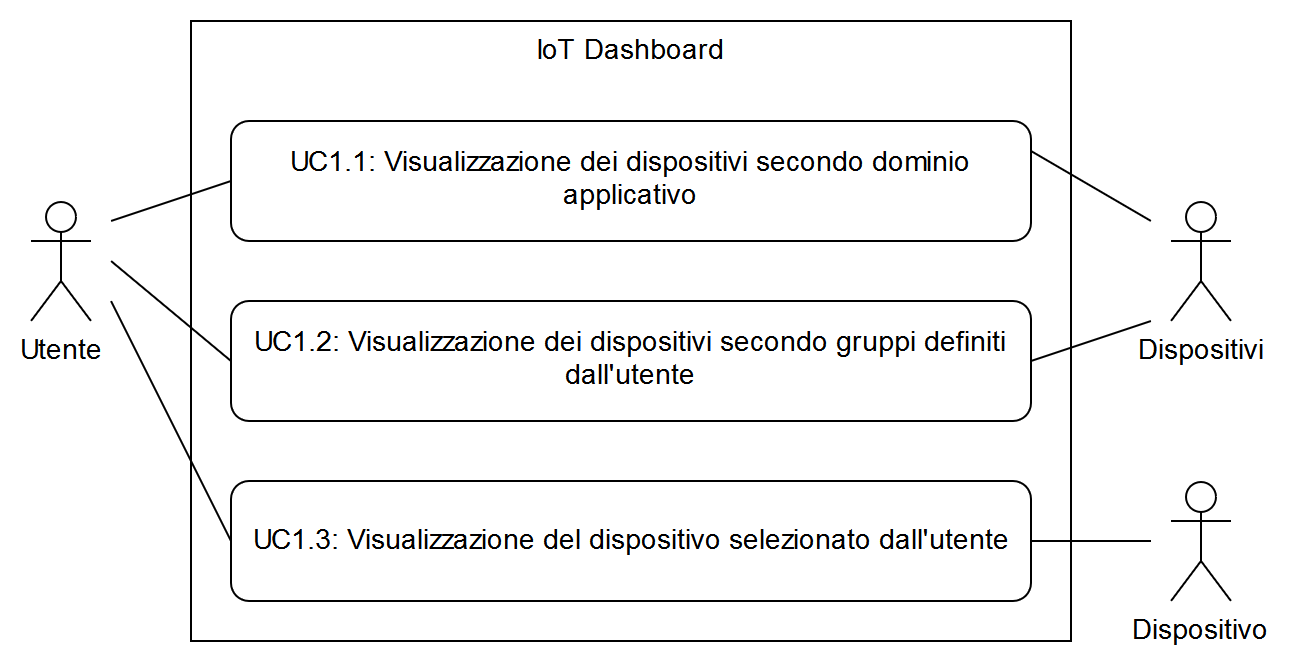
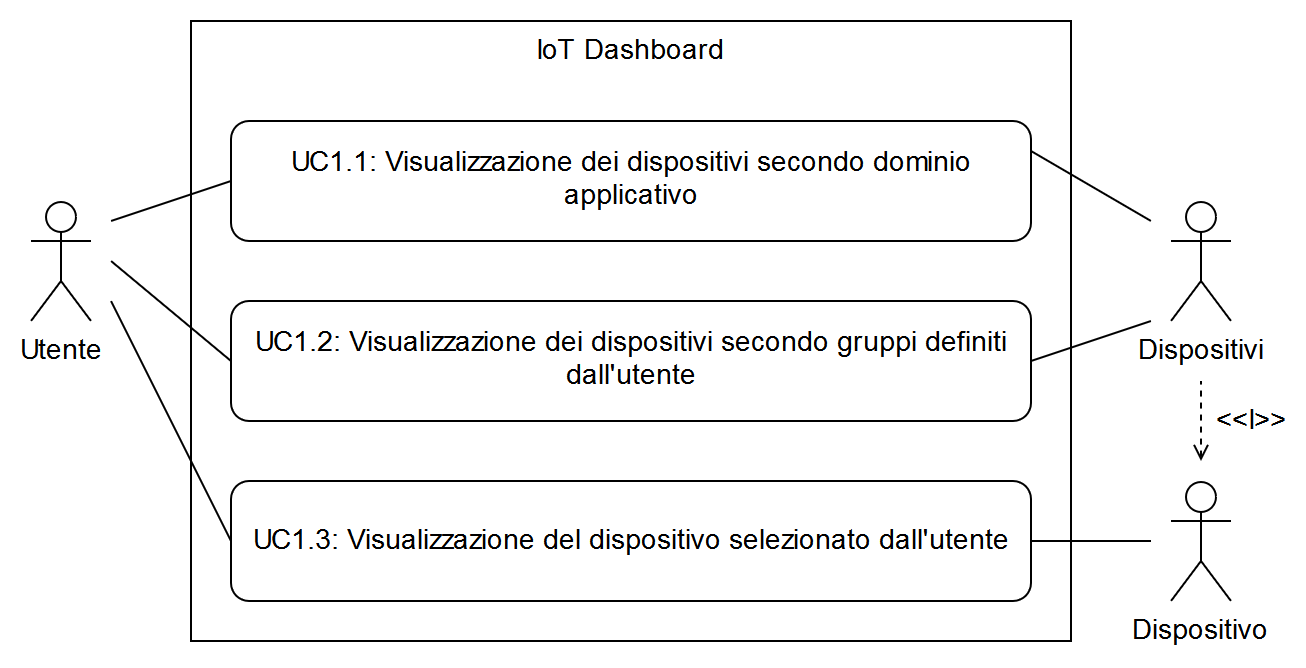
SRS: UC1.3 actor is now included

diff --git a/srs/srs.md b/srs/srs.md
@@ -161,7 +161,7 @@ Di seguito viene presentata la lista degli attori dei casi d’uso:
 #### UC1.3: Visualizzazione del dispositivo selezionato dall'utente
 
 -   **Attori**:  
-    L'utente che interagisce con la dashboard. Il dispositivo selezionato dall'utente che fornisce le proprie informazioni alla dashboard.
+    L'utente che interagisce con la dashboard. Il dispositivo selezionato dall'utente tra tutti quelli collegati al sistema.
 -   **Scopo e descrizione**:  
     L'utente interroga la dashboard per conoscere lo stato del dispositivo selezionato. In questa visualizzazione la dashboard mostra le informazioni provenienti dal dispositivo.
 
